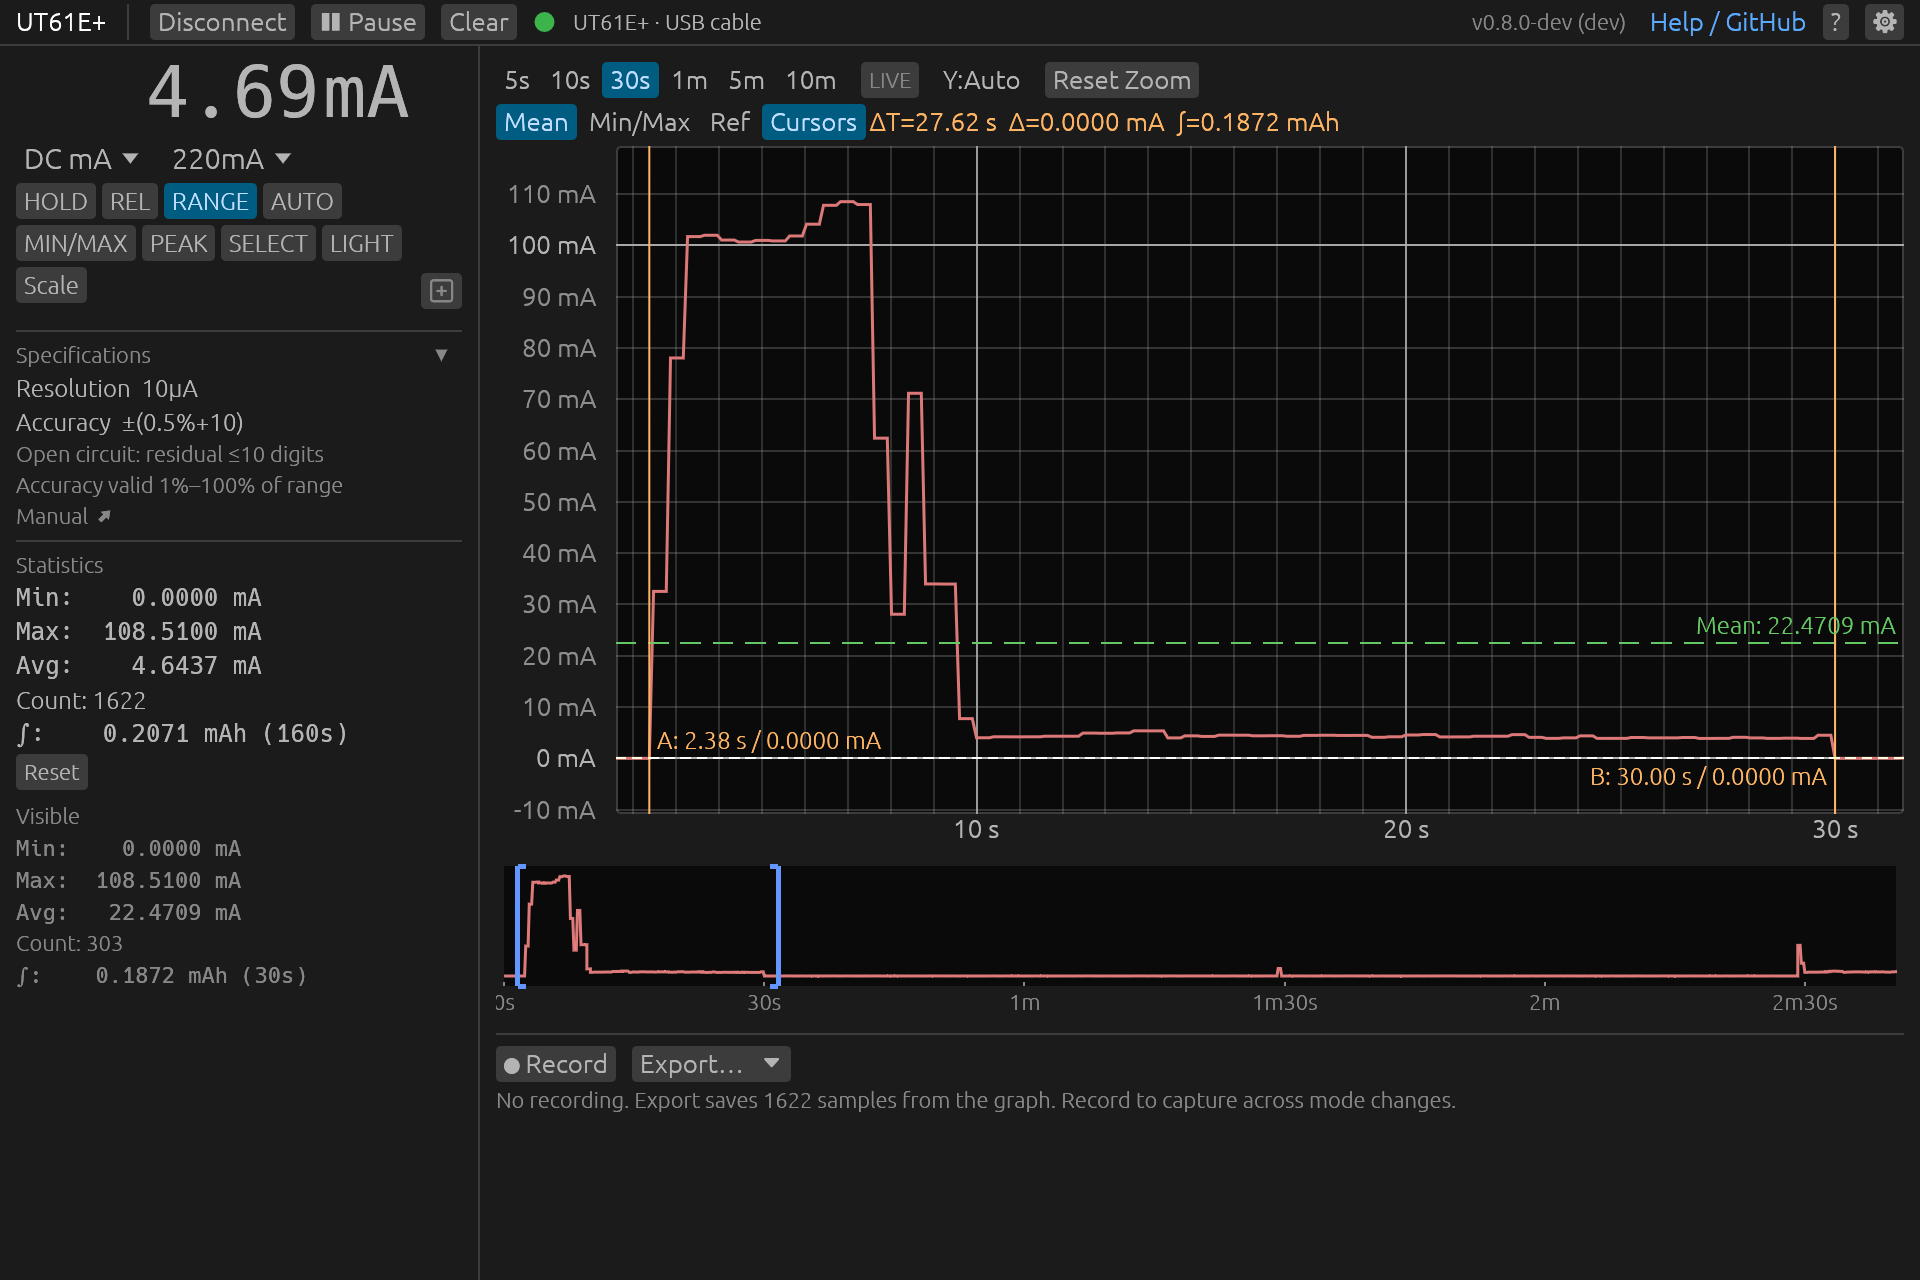
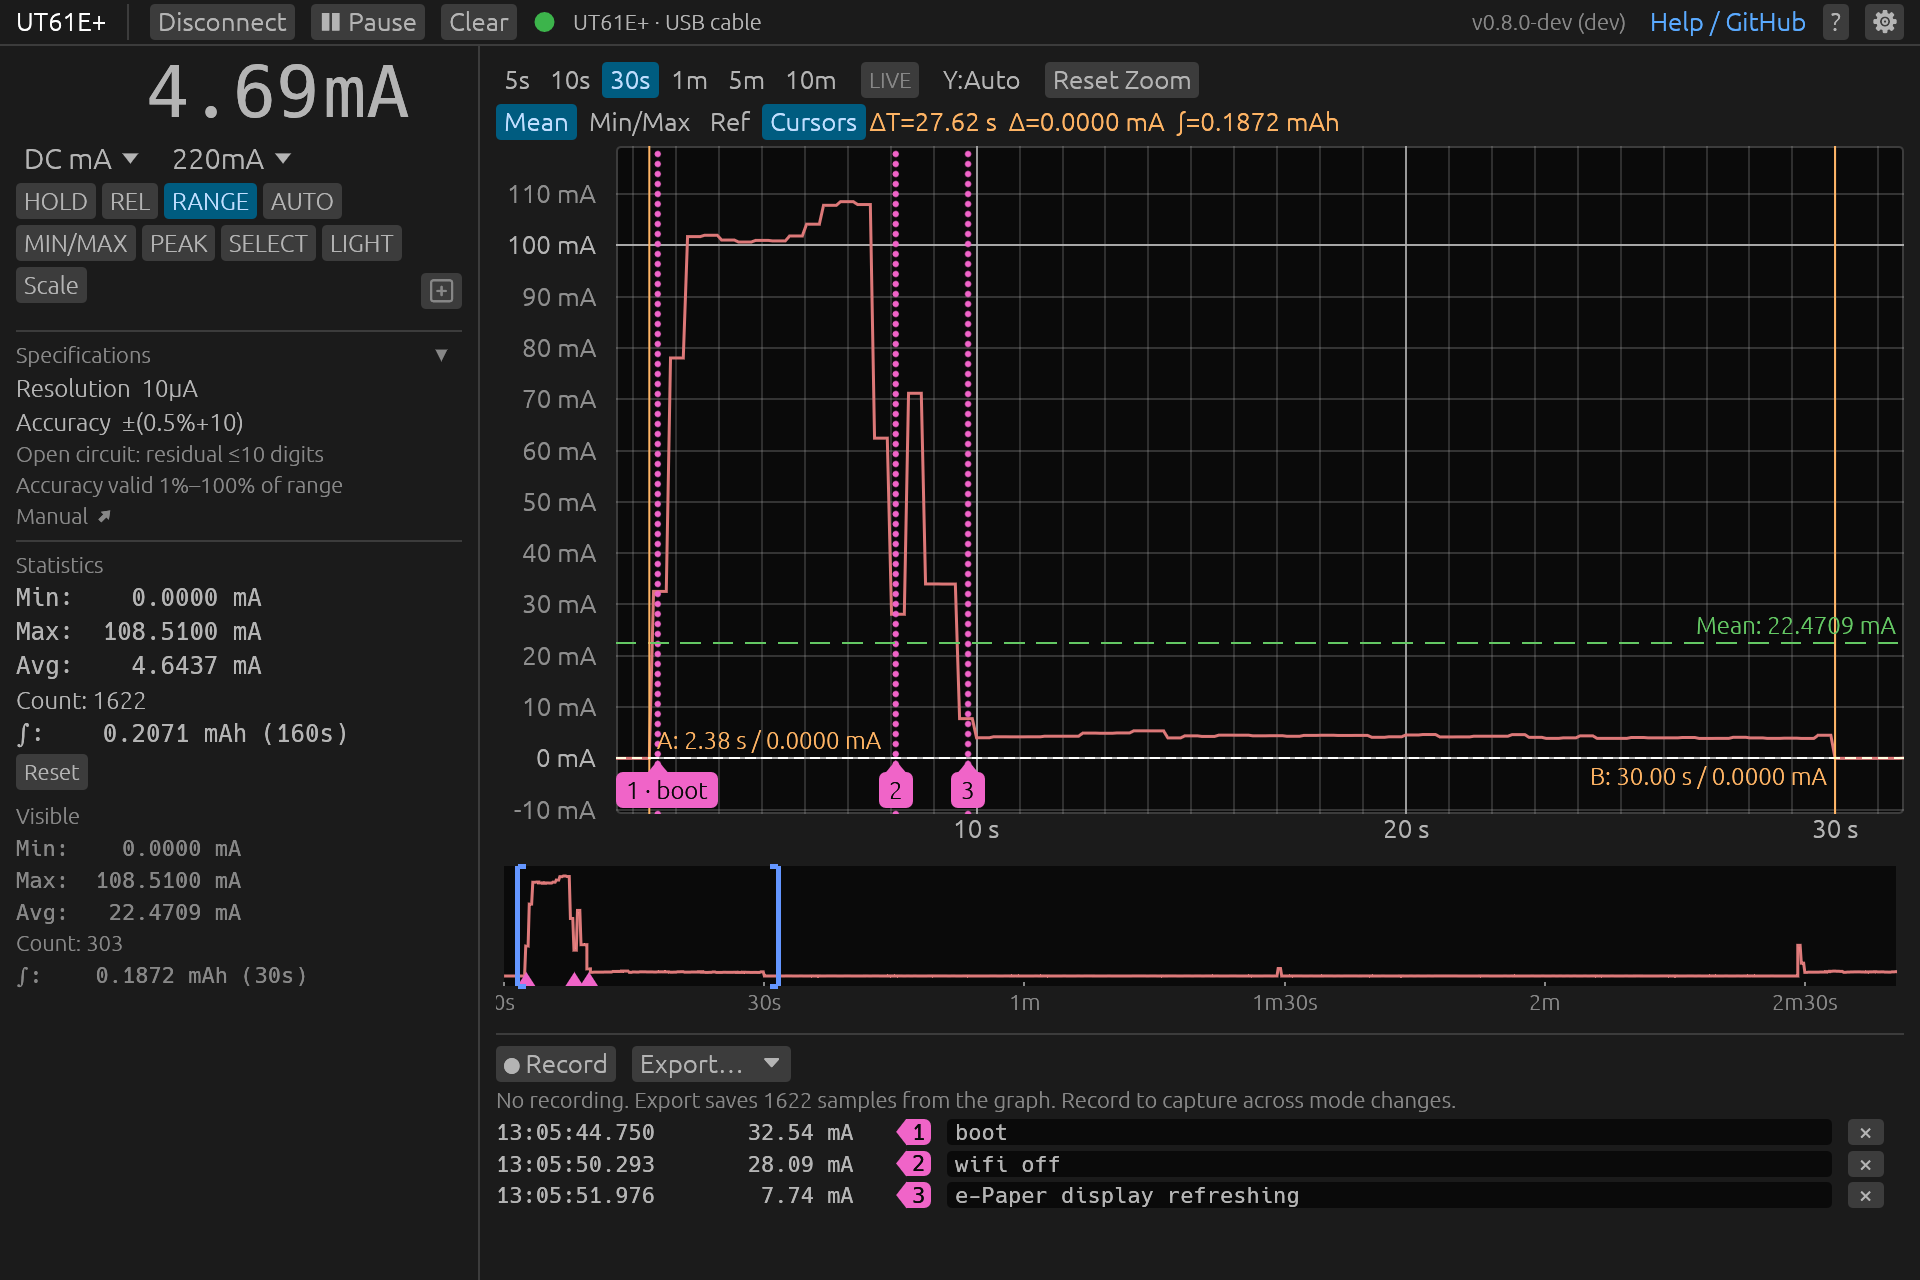
docs: show markers in the wide-layout screenshot
Three markers name the boot's stages in the hero picture, placed from
the plot's right-click menu: close ones keep only their numbers on the
graph while the log lists every note.

diff --git a/README.md b/README.md
@@ -10,13 +10,13 @@ Read, record and remote-control a digital multimeter over its USB cable, or wire
 
 Includes a CLI with text, CSV and JSON output and a GUI with real-time graphing.
 
-![dmm-gui on a DC mA session: the live reading, specifications and statistics beside the graph, where the minimap picks out a sensor's boot sequence and two cursors read its duration and charge](assets/gui-wide-layout.png)
+![dmm-gui on a DC mA session: the live reading, specifications and statistics beside the graph, where the minimap picks out a sensor's boot sequence, two cursors read its duration and charge, and markers name its stages](assets/gui-wide-layout.png)
 
 ## [GUI](docs/gui-reference.md)
 
 - Live reading with the meter's flags and sub-values, and buttons to switch mode, range, HOLD, REL and MIN/MAX from the screen
 - Time-series graph with minimap, cursors, mean and min/max overlays, and reference lines with threshold triggers
-- Recording for hours at a time, exported as CSV, JSON or a replay file
+- Recording for hours at a time, with notes on marked moments, exported as CSV, JSON or a replay file
 - Software scale, offset and unit relabel for clamps, shunts and sensors
 - Live specifications (resolution, accuracy) for the current range
 - Big meter mode for bench-mount use
